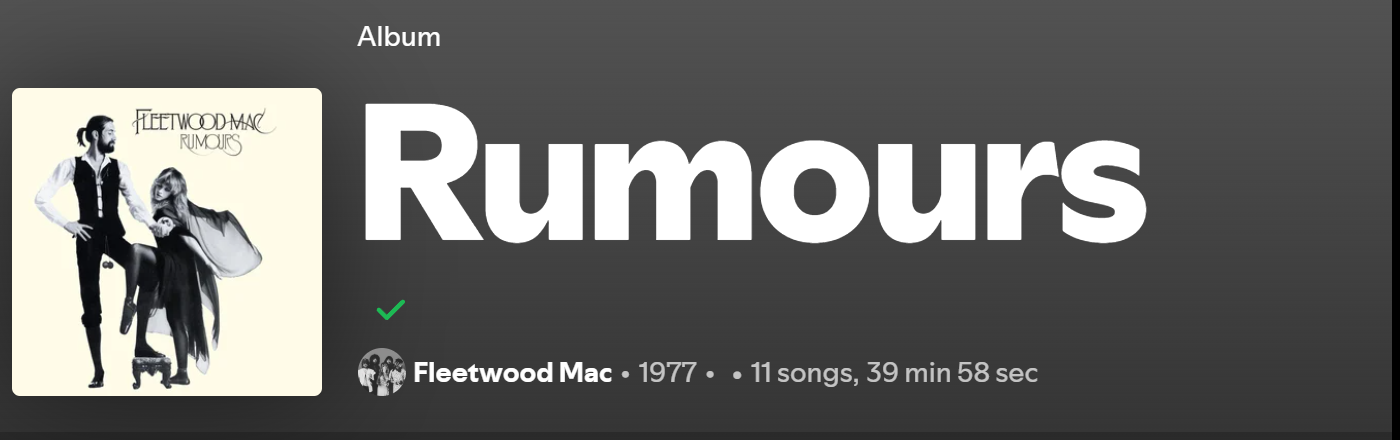
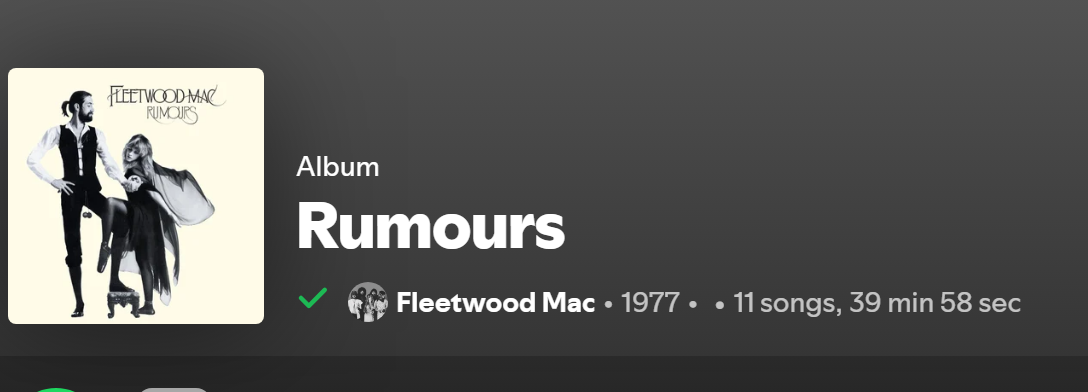
fix: flip the now-playing badge margin, refresh the header screenshot
The badge moved to the front of the track title but kept margin-left, so the
gap sat on the wrong side and the glyph touched the text.

T11's tracklist probe read a selector that matches nothing on current Spotify;
null minus null is 0, so that assertion passed without checking anything. Query
the class the extension itself uses first, and throw on a missing node.

README's header shot still showed the badge on its own line below the title —
the very layout this branch removes. Recaptured, and reframed to stay inside
the main view, which the old rect overran into the now-playing sidebar.

diff --git a/extensions/listening-list/listening-list.js b/extensions/listening-list/listening-list.js
@@ -123,7 +123,7 @@ const LL_BASE_CSS = `
   .ll-badge--header + *::before { content: none !important; }
   .ll-badge-card-wrapper { position: relative; height: 0; width: 0; overflow: visible; pointer-events: none; z-index: 100; }
   .ll-badge--card { position: absolute; top: 10px; left: 10px; width: 22px; height: 22px; background: rgba(0,0,0,0.6); border-radius: 50%; padding: 3px; box-sizing: border-box; }
-  .ll-badge--nowplaying { width: 12px; height: 12px; margin-left: 6px; vertical-align: middle; }
+  .ll-badge--nowplaying { width: 12px; height: 12px; margin-right: 6px; vertical-align: middle; }
   .ll-badge--style-dot svg { display: none; }
   .ll-badge--style-dot::after { content: ""; display: block; width: 6px; height: 6px; border-radius: 50%; background: var(--spice-button, #1ed760); }
   .ll-badge--style-text svg { display: none; }

diff --git a/extensions/listening-list/tests.live.md b/extensions/listening-list/tests.live.md
@@ -110,8 +110,16 @@ marked (wanted or listened), eval on the album page:
 
 ```js
 (() => {
-  const y = (s) => { const e = document.querySelector(s); return e ? e.getBoundingClientRect().y : null; };
-  const probe = () => [y('.main-entityHeader-metaData'), y('.main-actionBar-ActionBar'), y('[data-testid="tracklist-row"]')];
+  const y = (s) => {
+    const e = document.querySelector(s);
+    if (!e) throw new Error('probe found nothing for ' + s);   // a missing node must fail, not read as 0
+    return e.getBoundingClientRect().y;
+  };
+  const probe = () => [
+    y('.main-entityHeader-metaData'),
+    y('.main-actionBar-ActionBar'),
+    y('.main-trackList-trackListRow, [data-testid="tracklist-row"]'),
+  ];
   const before = probe();
   document.querySelectorAll('.ll-badge--header, .ll-badge--tracklist').forEach((e) => e.remove());
   const after = probe();
@@ -120,9 +128,12 @@ marked (wanted or listened), eval on the album page:
 ```
 
 - Assert: `[0, 0, 0]` for every title length, and the header badge's parent is
-  `.main-entityHeader-metaData` (not the heading).
+  `.main-entityHeader-metaData` (not the heading). A throw means the selectors
+  went stale — fix them, a null reading would score a silent pass.
 - Now-playing: with the playing track's album marked, the badge's parent must be
   the element holding the track name (an `<a>`, not `.main-trackInfo-name`), and
-  removing it must not change `.main-trackInfo-name`'s height.
+  removing it must not change `.main-trackInfo-name`'s height. It must also sit
+  *before* the text and inside `.main-trackInfo-overlay`'s box — that overlay
+  clips horizontally, so a badge after the title vanishes on long track names.
 - The metadata line must read `<badge> Artist • Year • N songs` — no stray `•`
   between the badge and the artist.

diff --git a/extensions/listening-list/screenshots.md b/extensions/listening-list/screenshots.md
@@ -71,7 +71,7 @@ Windows path.
 |---|---|---|---|
 | `preview.png` | 4 badged track rows | `--rect 470,430,210,210 --scale 3` | (Marketplace card) |
 | `tracklist-badges.png` | tracklist | `--rect 454,392,676,416 --scale 2` | badges beside each track |
-| `album-header.png` | album header | `--rect 448,72,700,220 --scale 2` | badge under album title |
+| `album-header.png` | album header | `--rect 448,72,544,196 --scale 2` | badge on the artist/release line |
 | `viewer.png` | Viewer tab | `--selector ".GenericModal" --scale 2` | marked albums list |
 | `stats.png` | Stats tab | `--selector ".GenericModal" --scale 2` | totals and breakdown |
 | `settings.png` | Settings tab | `--selector ".GenericModal" --scale 2` | surface toggles |
@@ -84,6 +84,8 @@ Modal: click `button[aria-label='<your Spotify name>']`, then
 
 - Full-viewport shots leak the sidebar playlists, Liked Songs panel, avatar, and the
   currently-playing track. Use tight rects only.
+- At `viewport 1440 900` the main view spans x 436–1004. A rect running past x≈1004 reaches
+  into the right sidebar and picks up the now-playing panel's artwork.
 - Keep clips above y≈810: the now-playing bar composites over anything lower, even when the
   clip is inside the viewport.
 - The Marketplace card centre-crops to 175×175. `preview.png` at 4 rows stays legible;

diff --git a/extensions/listening-list/README.md b/extensions/listening-list/README.md
@@ -36,7 +36,7 @@ Right-click any track or album → "Mark as listened". A badge appears in enable
 
 A marked album gets a badge on its page header:
 
-![Album page header with a listened badge under the album title](album-header.png)
+![Album page header with a listened badge at the start of the artist and release line](album-header.png)
 
 The Viewer lists everything you have marked, with filtering and sorting:
 
